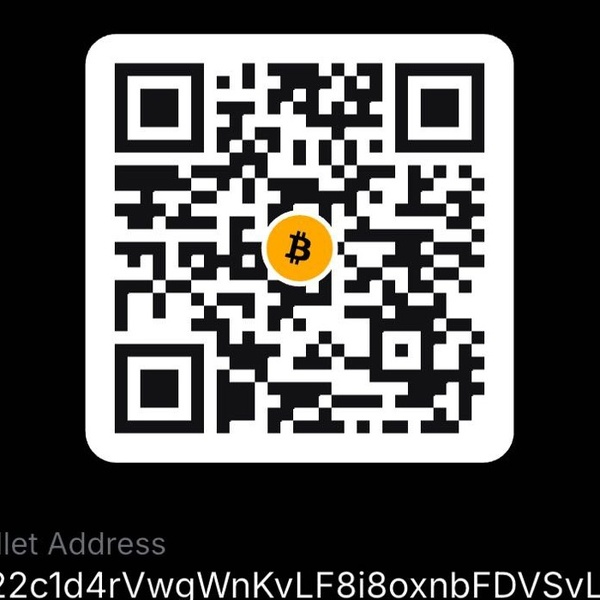
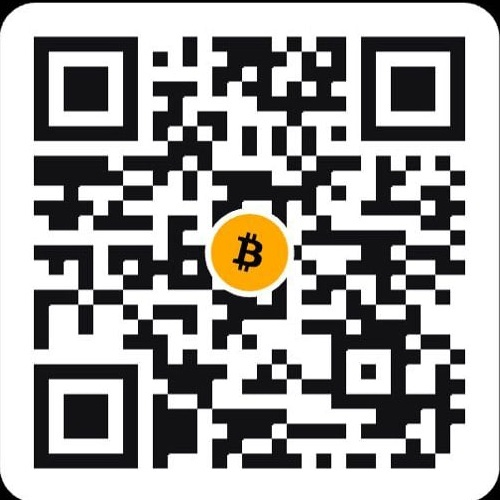
Update all QR codes to new versions (uniform 500x500px, v3)
- Replaced all 3 QR codes with new versions from Aleksandr
- All QR codes now uniform 500x500px
- Cropped to show only white rounded square with QR
- Updated cache busting version to v3
- BTC, USDT, ETH all same size and clean

diff --git a/src/components/SupportButton.tsx b/src/components/SupportButton.tsx
@@ -34,7 +34,7 @@ export default function SupportButton({ lang }: Props) {
   // basePath для GitHub Pages
   const basePath = process.env.NODE_ENV === 'production' ? '/ai-mindmap' : '';
   // Version for cache busting
-  const version = 'v2';
+  const version = 'v3';
   
   const wallets = [
     {
